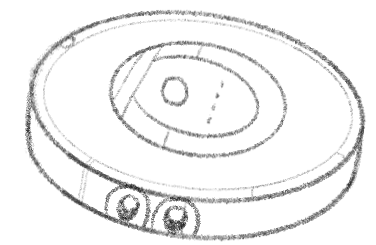
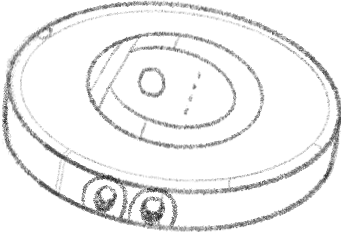
feat(physics): adjust robot cleaner collision box and add diagonal colliders
- Modify robot cleaner's body size and offset for better collision handling
- Add diagonal line of collidable rectangles in balcony scene

diff --git a/src/scenes/BalconyScene.ts b/src/scenes/BalconyScene.ts
@@ -28,12 +28,16 @@ export class BalconyScene extends BaseScene {
       return this.addInteractiveObjecrs(obj);
     });
 
+    // 创建一个虚拟的斜线矩形列表
+    const horizonLineRects = this.addHorizonLine();
+
     const robotCleaner = interactiveGameObjects.find(pair => pair.first === 'balcony_robot_cleaner')?.second;
 
     const collidableObjects = interactiveGameObjects.filter(pair => pair.first !== 'balcony_robot_cleaner').map(pair => pair.second);
-    console.log(collidableObjects);
+
     if (robotCleaner) {
       this.physics.add.collider(robotCleaner, collidableObjects);
+      this.physics.add.collider(robotCleaner, horizonLineRects);
     }
 
     // 创建出口
@@ -63,6 +67,34 @@ export class BalconyScene extends BaseScene {
 
     // 设置键盘快捷键
     this.setupKeyboardShortcuts();
+  }
+
+  private addHorizonLine() {
+    let allRects: Phaser.GameObjects.Rectangle[] = [];
+
+    const startX = 0;
+    const startY = 290;
+    const endX = this.game.config.width as number;
+    const endY = 480;
+
+    // Calculate the number of squares needed based on the distance between start and end points
+    const distance = Phaser.Math.Distance.Between(startX, startY, endX, endY);
+    const squareSize = 10;
+    const numSquares = Math.floor(distance / squareSize);
+
+    // Calculate the angle between start and end points
+    const angle = Phaser.Math.Angle.Between(startX, startY, endX, endY);
+
+    // Create a series of squares connected to form a diagonal line
+    for (let i = 0; i < numSquares; i++) {
+      const x = startX + Math.cos(angle) * i * squareSize;
+      const y = startY + Math.sin(angle) * i * squareSize;
+      const square = this.add.rectangle(x, y, squareSize, squareSize, 0x00ff00, 0);
+      this.physics.add.existing(square, true);
+      allRects.push(square);
+    }
+
+    return allRects;
   }
 
   private createExit(exit: RoomExit): void {

diff --git a/src/objects/RobotCleaner.ts b/src/objects/RobotCleaner.ts
@@ -14,6 +14,9 @@ export class RobotCleaner extends Phaser.Physics.Arcade.Sprite {
     this.setDamping(true);
     this.setDrag(0.7);
 
+    this.body?.setSize(this.width, this.height * 0.9)
+    this.body?.setOffset(0, this.height * 0.15);
+
     this.setInteractive();
     this.on('pointerdown', (pointer: Phaser.Input.Pointer) => {
       const angle = Phaser.Math.FloatBetween(0, Math.PI * 2);
